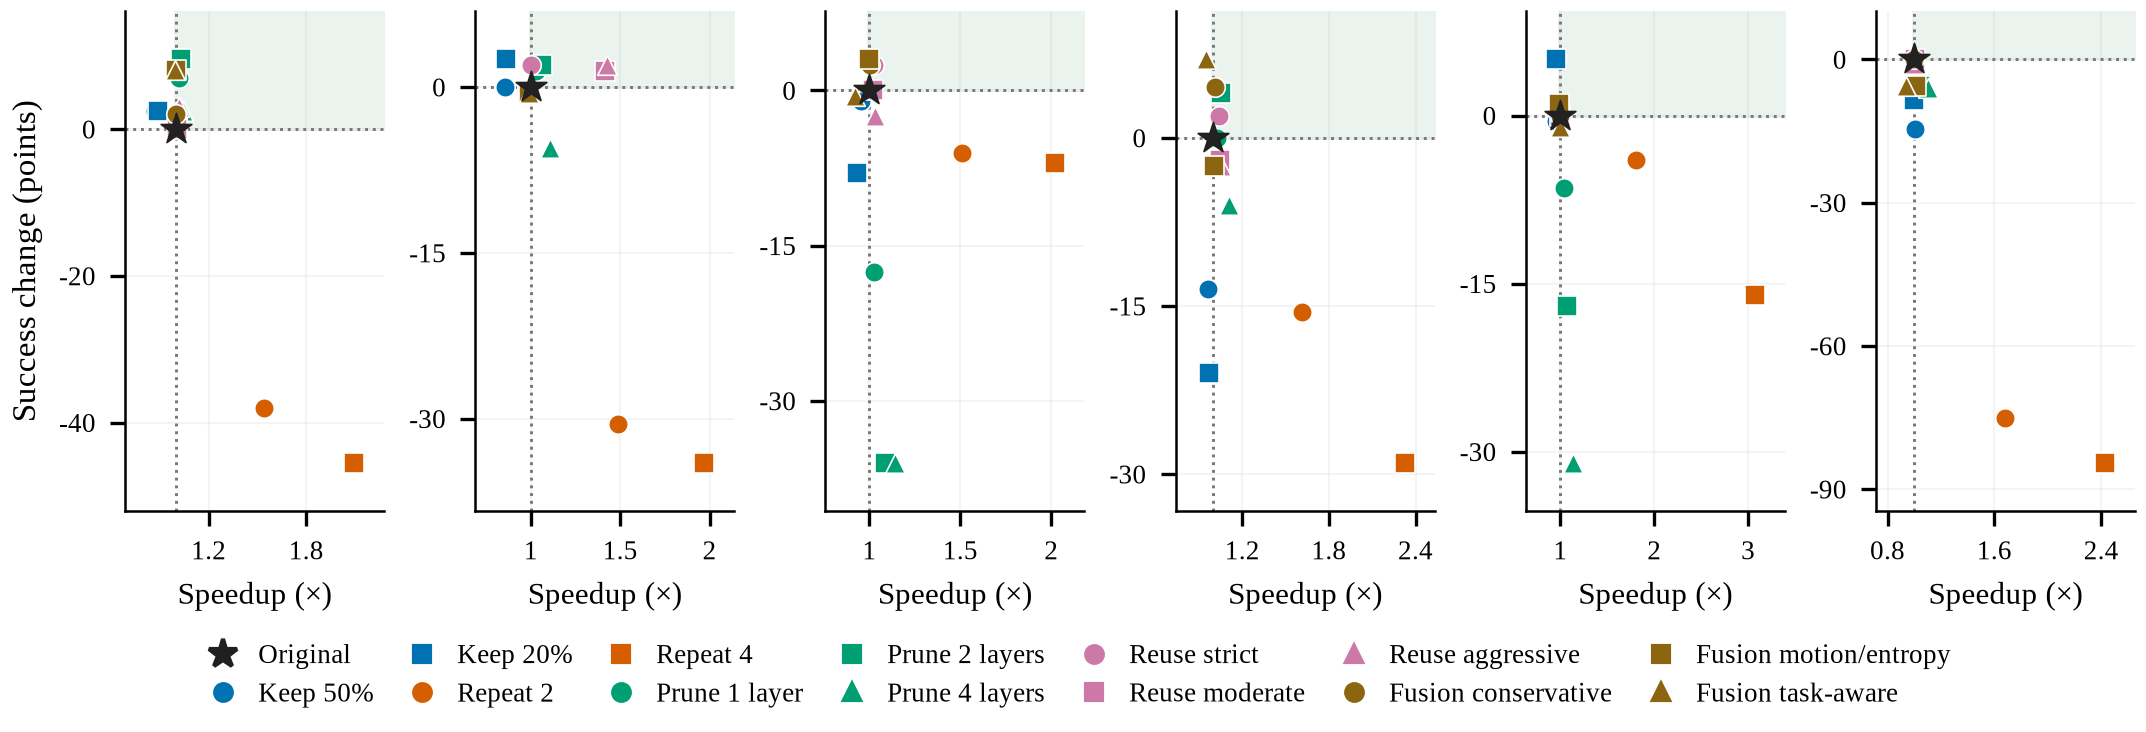
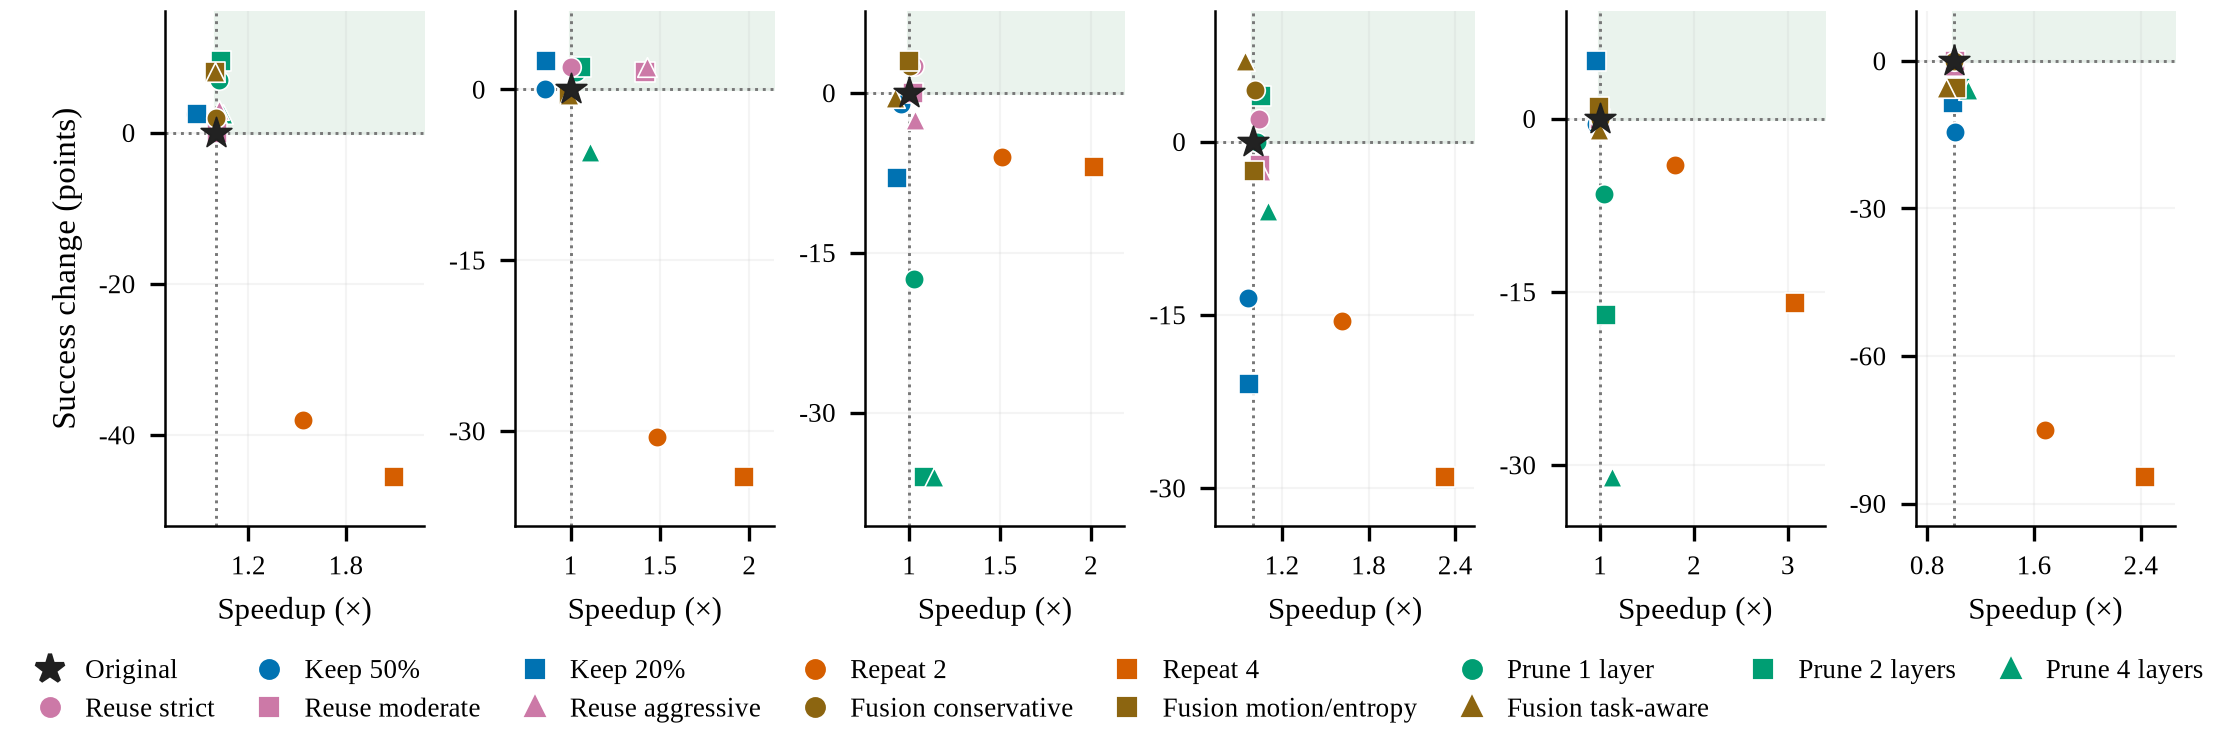
Trade-off row: legend in two rows read left to right, a trick's settings side by side
Claude-Session: https://claude.ai/code/session_011USoCwMtkSq1wKhwTPjNT9

diff --git a/experiments/paper/figures_combined/make_tradeoff_row.py b/experiments/paper/figures_combined/make_tradeoff_row.py
@@ -21,7 +21,7 @@ def style_fallback():
         'axes.spines.right': False, 'axes.linewidth': .6, 'lines.markersize': 4, 'savefig.dpi': 300, 'axes.axisbelow': True})
 common.style = style_fallback
 
-def tradeoff_row(name, env='bridge', height=2.45):
+def tradeoff_row(name, env='bridge', height=2.5):
     common.style(); ms = common.models(env)
     fig, axs = plt.subplots(1, len(ms), figsize=(7.16, height), layout='constrained')
     symbols = ['o', 's', '^']; markers = {0: '*'}
@@ -46,11 +46,18 @@ def tradeoff_row(name, env='bridge', height=2.45):
     for ax in axs: ax.set_xlabel('Speedup (×)', fontsize=7.5)
     labels = {1: ['Keep 50%', 'Keep 20%'], 2: ['Repeat 2', 'Repeat 4'], 3: ['Prune 1 layer', 'Prune 2 layers', 'Prune 4 layers'],
               4: ['Reuse strict', 'Reuse moderate', 'Reuse aggressive'], 5: ['Fusion conservative', 'Fusion motion/entropy', 'Fusion task-aware']}
-    handles = [Line2D([], [], marker='*', color='#202020', ls='', markersize=7, label='Original')]
-    for i in range(1, 14):
+    def h(i):
         f = common.FAMILY_IDS[i]; j = sum(1 for k in range(i) if common.FAMILY_IDS[k] == f)
-        handles.append(Line2D([], [], marker=markers[i], ls='', color=common.COLORS[f], markersize=4, label=labels[f][j]))
-    fig.legend(handles=handles, loc='outside lower center', ncol=7, frameon=False, handletextpad=.3, columnspacing=.8)
+        return Line2D([], [], marker=markers[i], ls='', color=common.COLORS[f], markersize=4, label=labels[f][j])
+    original = Line2D([], [], marker='*', color='#202020', ls='', markersize=7, label='Original')
+    # One legend, two rows, read left to right with a trick's settings side by side.
+    # Matplotlib fills legend columns top to bottom, so the two rows are interleaved.
+    row1 = [original] + [h(i) for i in range(1, 8)]      # foveation, action repeat, depth pruning
+    row2 = [h(i) for i in range(8, 14)]                   # guarded reuse, temporal fusion
+    blank = lambda: Line2D([], [], ls='', marker='', label=' ')
+    row2 += [blank() for _ in range(len(row1) - len(row2))]
+    handles = [x for pair in zip(row1, row2) for x in pair]
+    fig.legend(handles=handles, loc='outside lower center', ncol=len(row1), frameon=False, handletextpad=.3, columnspacing=1.0)
     common.save(fig, name)
 
 tradeoff_row('tradeoff_bridge_row')
